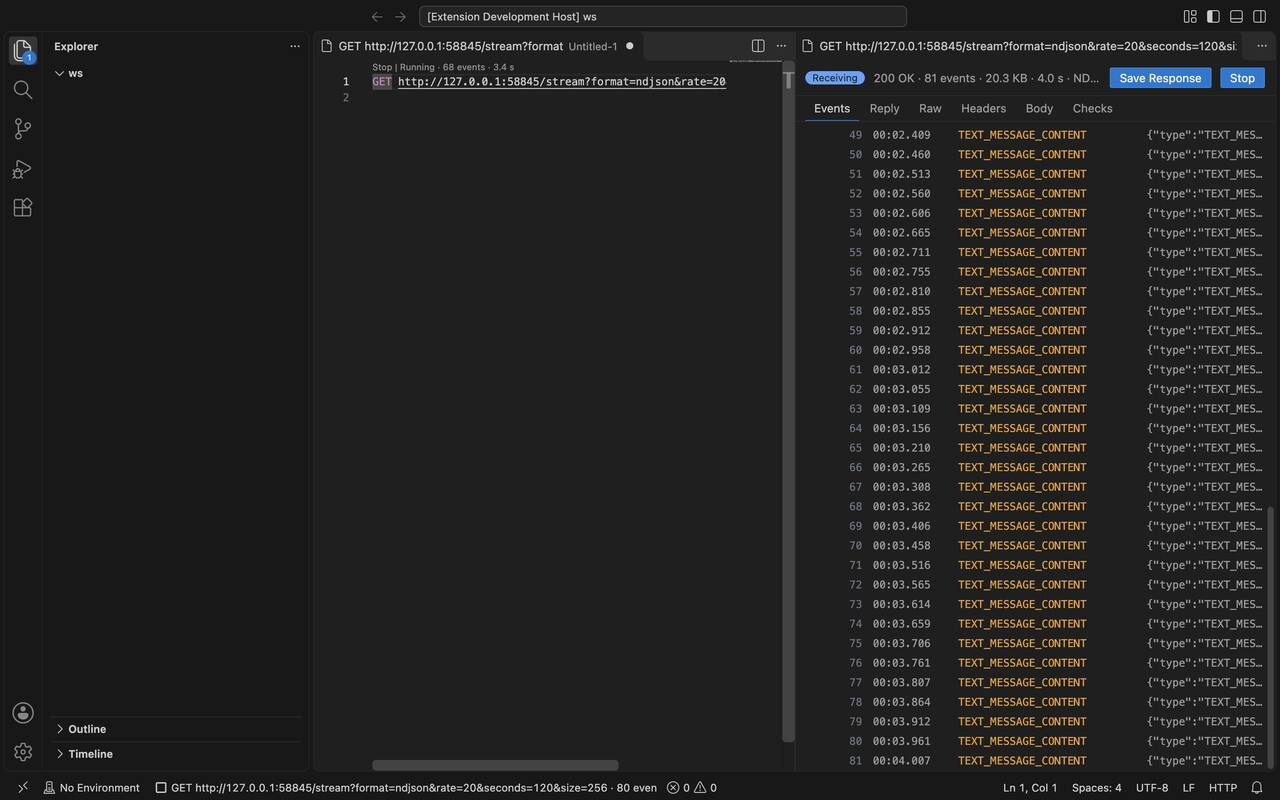
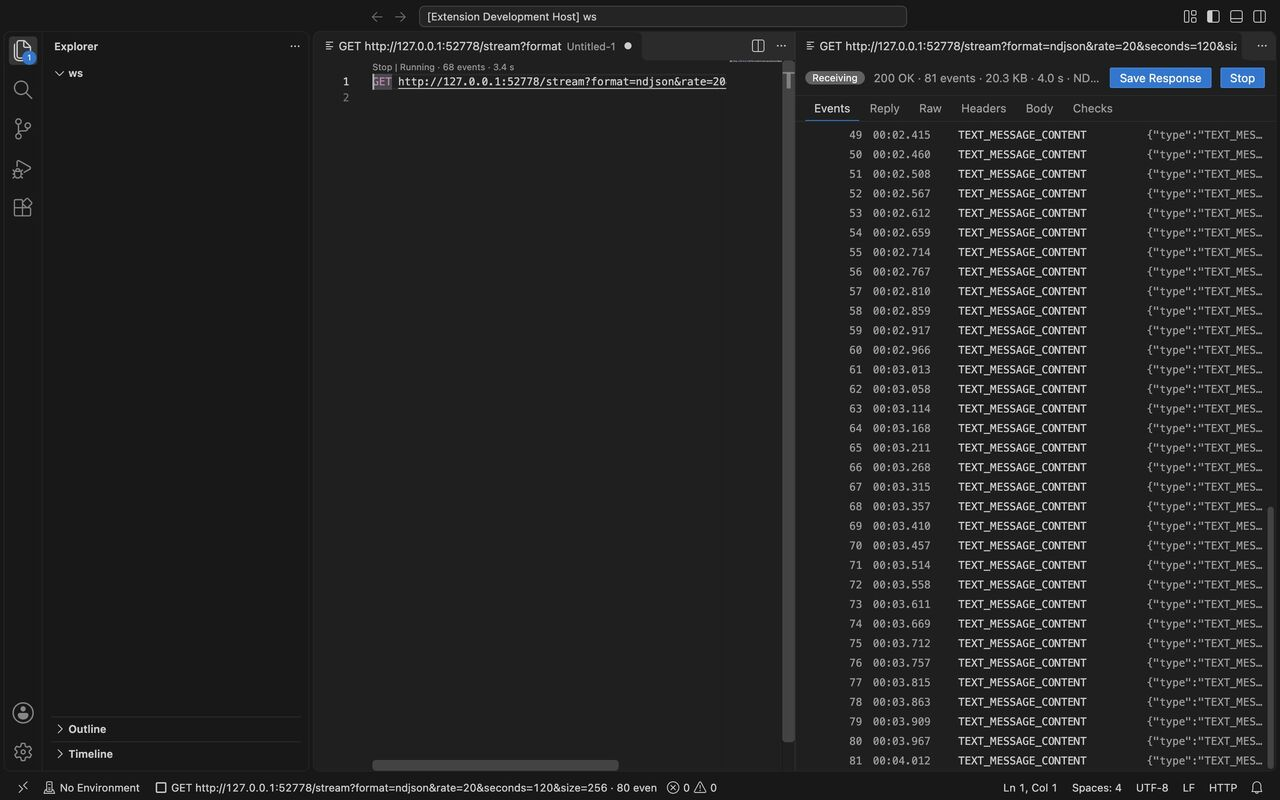
Replace the M6 screenshots with ones taken after the contrast fixes

diff --git a/docs/benchmarks.md b/docs/benchmarks.md
@@ -259,10 +259,10 @@ Every screenshot was checked for readable text and visible state: the status pil
 | Default Dark Modern         | Event detail, cancelled run            | [m6-dark-stopped](decisions/response-surface/m6-dark-stopped.jpeg)         |
 | Default Light Modern        | Raw, coloured                          | [m6-light-raw-live](decisions/response-surface/m6-light-raw-live.jpeg)     |
 | Default Light Modern        | Headers, with Open in Editor           | [m6-light-headers](decisions/response-surface/m6-light-headers.jpeg)       |
-| Default High Contrast       | Events, receiving                      | [m6-hc-events-live](decisions/response-surface/m6-hc-events-live.jpeg)     |
+| Default High Contrast       | Event detail, selected row outlined    | [m6-hc-detail](decisions/response-surface/m6-hc-detail.jpeg)               |
 | Default High Contrast Light | Event detail with Open Event in Editor | [m6-hclight-detail](decisions/response-surface/m6-hclight-detail.jpeg)     |
 
-Two things seen in the screenshots were fixed after these runs, in `5b09974`. The walkthroughs were not rerun after the fix.
+Two things seen in the first walkthroughs were fixed in `5b09974`. All four walkthroughs were then run again on `30068df` (surfaces `m6fix-dark`, `m6fix-light`, `m6fix-hc` and `m6fix-hclight`), and the six committed screenshots come from that rerun. In it, the selected row has an outline in both high-contrast themes and the event labels use the text colour.
 
-- **No selection marker in Default High Contrast.** In the `m6-hc-detail` and `m6-hc-stopped` screenshots, which were not kept, the selected row has no fill and no outline. The panel styled a selected row only with `list.activeSelectionBackground`, which Default High Contrast leaves unset, and set no `contrastActiveBorder`. The border of the open detail still marks the event. In Default High Contrast Light the row has a light fill.
+- **No selection marker in Default High Contrast.** In the first walkthrough's `m6-hc-detail` and `m6-hc-stopped` screenshots, which were not kept, the selected row has no fill and no outline. The panel styled a selected row only with `list.activeSelectionBackground`, which Default High Contrast leaves unset, and set no `contrastActiveBorder`. The border of the open detail still marks the event. In Default High Contrast Light the row has a light fill.
 - **Low contrast for event labels in the light themes.** The labels used `symbolIcon.classForeground`, which is `#D67E00` in both light themes. On white that is about 3.1 to 1 by calculation, below the 4.5 to 1 that WCAG asks of normal text. This is calculated from the colour value, not measured on screen.
